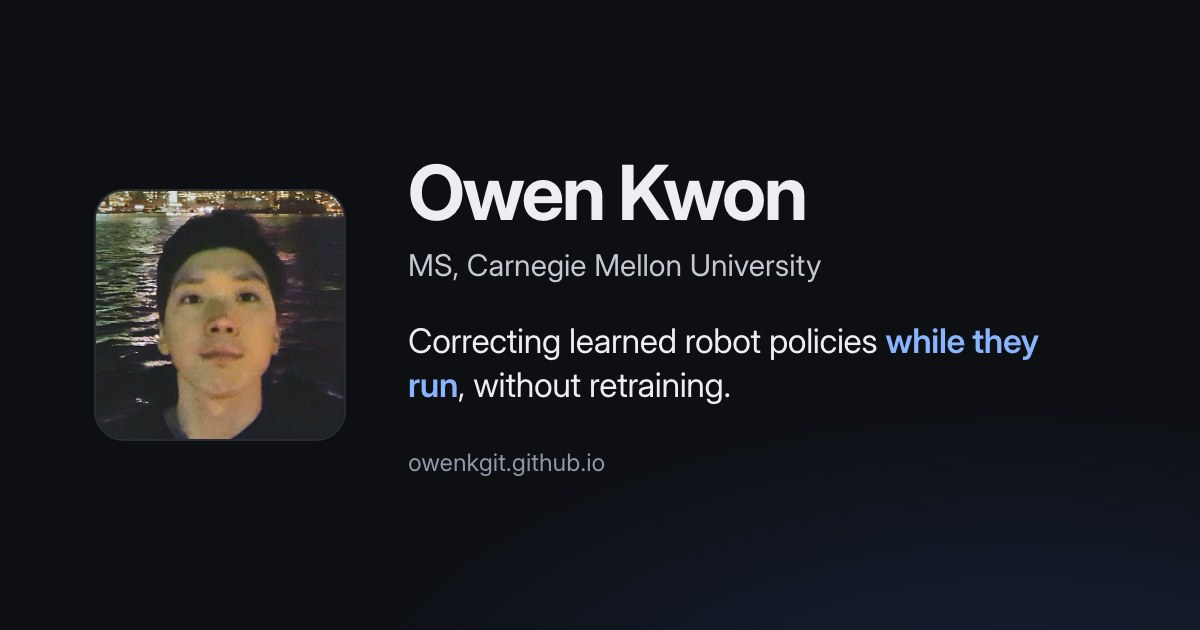
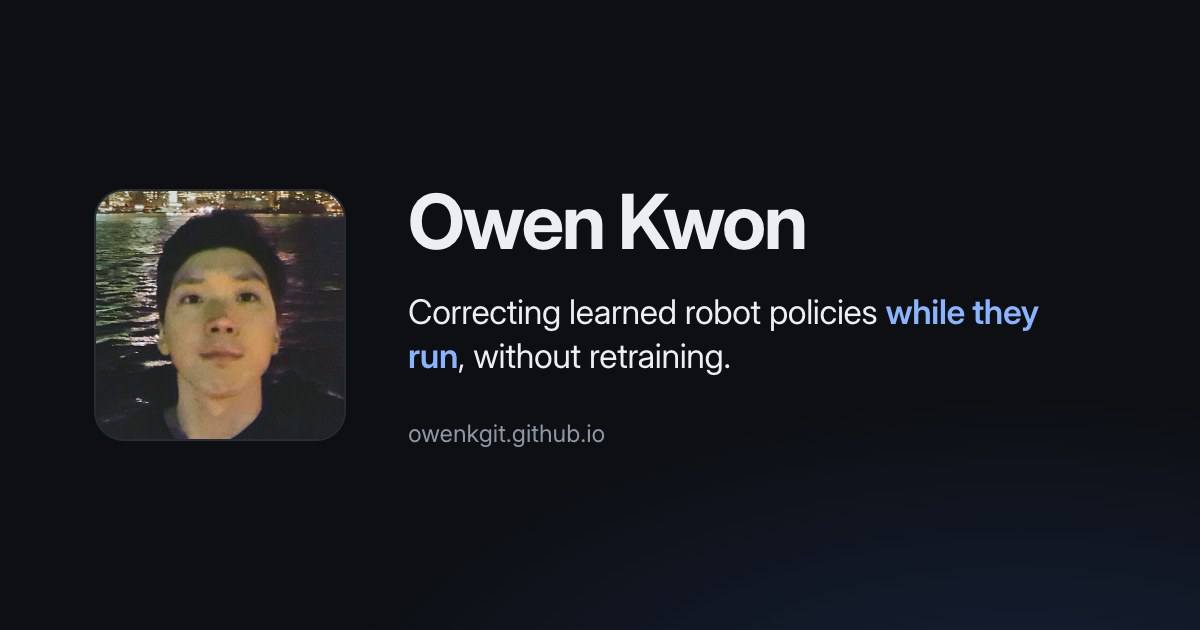
Show email under the name; remove degree, GitHub and LinkedIn from the intro

Changed region(s): [[0.3392, 0.4825, 0.8633, 0.6333], [0.3392, 0.2413, 0.6783, 0.4524], [0.3392, 0.6635, 0.5242, 0.754]]

diff --git a/static/css/site.css b/static/css/site.css
@@ -25,8 +25,6 @@
   --text-3: #675f53;
   --accent: #8f2d1f;
   --accent-hover: #64190f;
-  --btn-bg: var(--text);
-  --btn-fg: var(--bg);
   --img-filter: none;
 
   --serif: "Newsreader", Georgia, "Times New Roman", serif;
@@ -49,8 +47,6 @@
   --text-3: #8b919c;
   --accent: #f2c14e;
   --accent-hover: #ffd986;
-  --btn-bg: var(--accent);
-  --btn-fg: #111111;
   --img-filter: brightness(0.9);
 }
 
@@ -201,8 +197,9 @@ main.wrap { padding-bottom: 2rem; }
   letter-spacing: -0.02em;
 }
 
-.intro-meta { margin-top: 0.75rem; }
-.intro-meta span { white-space: nowrap; }
+.intro-email { margin-top: 0.75rem; font: 500 0.9375rem/1.5 var(--mono); letter-spacing: 0; }
+.intro-email a { display: inline-flex; align-items: center; gap: 0.5rem; padding-block: 0.3rem; color: var(--text-2); }
+.intro-email a:hover { color: var(--accent); }
 
 .prose { max-width: var(--measure); margin-top: 1.5rem; line-height: 1.7; }
 .prose p + p { margin-top: 1em; }
@@ -218,8 +215,6 @@ main.wrap { padding-bottom: 2rem; }
   color: var(--text); font: 500 0.9375rem/1 var(--sans);
 }
 .btn:hover { border-color: var(--text-3); color: var(--text); }
-.btn-primary { background: var(--btn-bg); border-color: var(--btn-bg); color: var(--btn-fg); }
-.btn-primary:hover { background: var(--btn-bg); color: var(--btn-fg); opacity: 0.88; }
 
 @media (min-width: 48rem) {
   .intro { grid-template-columns: 17.5rem minmax(0, 1fr); gap: 3.5rem; align-items: start; padding-top: 4.5rem; }

diff --git a/_includes/icon.html b/_includes/icon.html
@@ -2,8 +2,6 @@
 {%- capture paths -%}
 {%- case include.name -%}
 {%- when 'mail' -%}<rect x="2" y="4" width="20" height="16" rx="2"/><path d="m22 7-8.97 5.7a1.94 1.94 0 0 1-2.06 0L2 7"/>
-{%- when 'github' -%}<path d="M15 22v-4a4.8 4.8 0 0 0-1-3.5c3 0 6-2 6-5.5.08-1.25-.27-2.48-1-3.5.28-1.15.28-2.35 0-3.5 0 0-1 0-3 1.5-2.64-.5-5.36-.5-8 0C6 2 5 2 5 2c-.3 1.15-.3 2.35 0 3.5A5.4 5.4 0 0 0 4 9c0 3.5 3 5.5 6 5.5-.39.49-.68 1.05-.85 1.65-.17.6-.22 1.23-.15 1.85v4"/><path d="M9 18c-4.51 2-5-2-7-2"/>
-{%- when 'linkedin' -%}<path d="M16 8a6 6 0 0 1 6 6v7h-4v-7a2 2 0 0 0-4 0v7h-4v-7a6 6 0 0 1 6-6z"/><rect x="2" y="9" width="4" height="12"/><circle cx="4" cy="4" r="2"/>
 {%- when 'sun' -%}<circle cx="12" cy="12" r="4"/><path d="M12 2v2m0 16v2M4.93 4.93l1.41 1.41m11.32 11.32 1.41 1.41M2 12h2m16 0h2M6.34 17.66l-1.41 1.41M19.07 4.93l-1.41 1.41"/>
 {%- when 'moon' -%}<path d="M12 3a6 6 0 0 0 9 9 9 9 0 1 1-9-9Z"/>
 {%- endcase -%}

diff --git a/_layouts/home.html b/_layouts/home.html
@@ -6,15 +6,9 @@ layout: base
   <img class="portrait" src="{{ p.photo | relative_url }}" alt="{{ p.name }}" width="280" height="280">
   <div>
     <h1 class="intro-name" id="intro-name">{{ p.name }}</h1>
-    <p class="label intro-meta"><span>{{ p.degree }}&nbsp;·</span> <span>{{ p.location }}</span></p>
+    <p class="intro-email">{% include email.html icon=true %}</p>
     <div class="prose">
 {{ content }}
-    </div>
-    <div class="intro-cta">
-      {% include email.html class="btn btn-primary" icon=true %}
-      {%- for l in p.links %}
-      <a class="btn" href="{{ l.url }}" target="_blank" rel="noopener">{% include icon.html name=l.icon %}{{ l.label }}</a>
-      {%- endfor %}
     </div>
   </div>
 </section>

diff --git a/CLAUDE.md b/CLAUDE.md
@@ -9,7 +9,7 @@ Owen Kwon's personal site, https://owenkgit.github.io (repo `owenkgit/owenkgit.g
 ## Where things live
 - Bio: `index.md` (the first paragraph carries `{: .lead}`).
 - Content: `_data/profile.yml`, `news.yml`, `publications.yml`, `projects.yml`, `blog.yml` (Writing sections).
-- Markup: `_layouts/base.html` (sticky header bar, main, footer) and `_layouts/home.html` (intro: photo beside name, bio and contact → Latest writing → News → Publications → Writing → Projects), with one `_includes/*.html` per section. `links.html` renders "PAPER · WEBSITE · CODE"; `icon.html` holds the inline SVG icons.
+- Markup: `_layouts/base.html` (sticky header bar, main, footer) and `_layouts/home.html` (intro: photo beside name, email and bio → Latest writing → News → Publications → Writing → Projects), with one `_includes/*.html` per section. `links.html` renders "PAPER · WEBSITE · CODE"; `icon.html` holds the inline SVG icons.
 - Icons: `favicon.ico` (16/32/48) and `static/icons/apple-touch-icon.png`, an "OK" monogram.
 - Styles, scripts, fonts, media: `static/`. Plain CSS; light/dark color tokens at the top of `static/css/site.css`.
 
